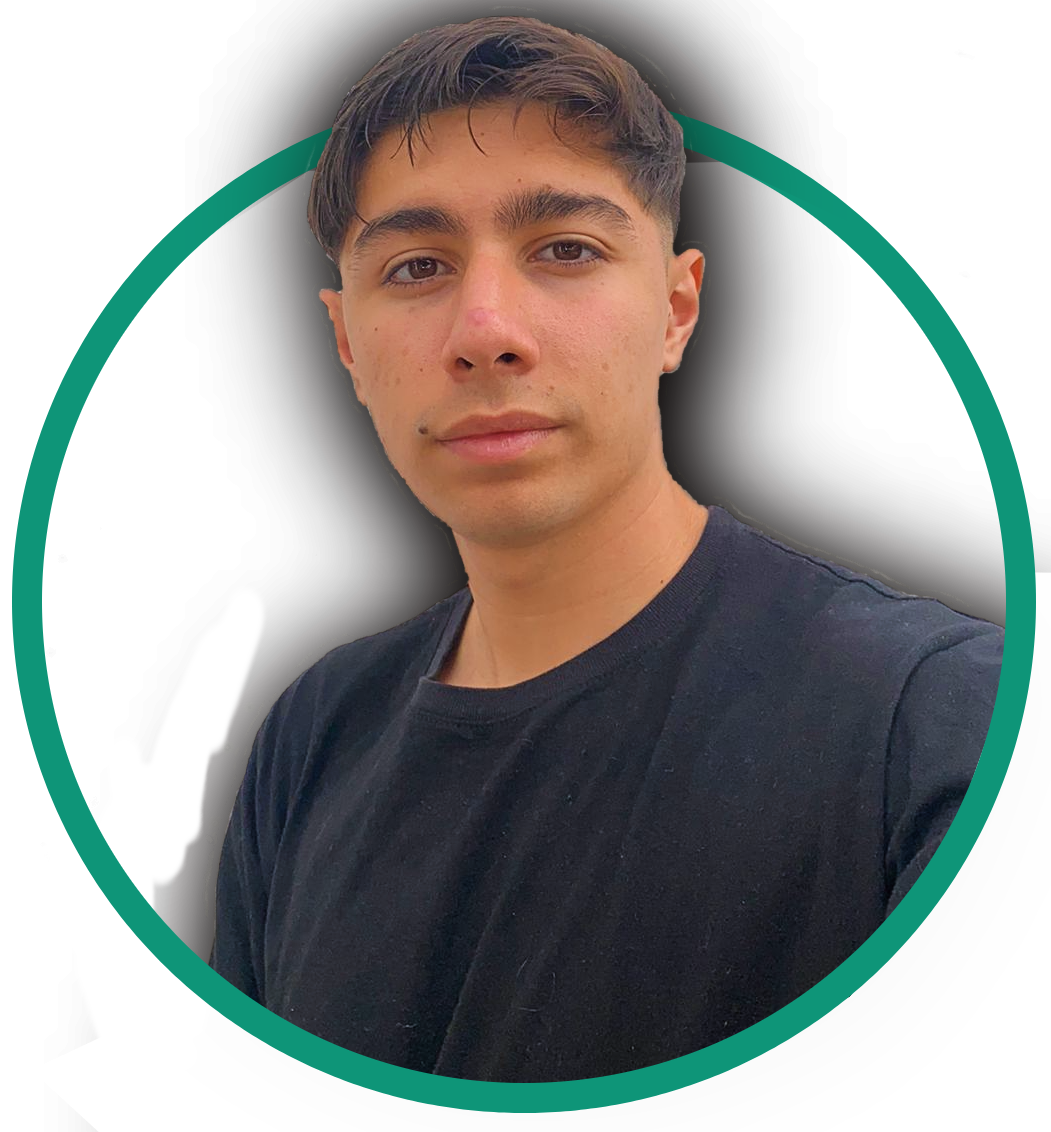
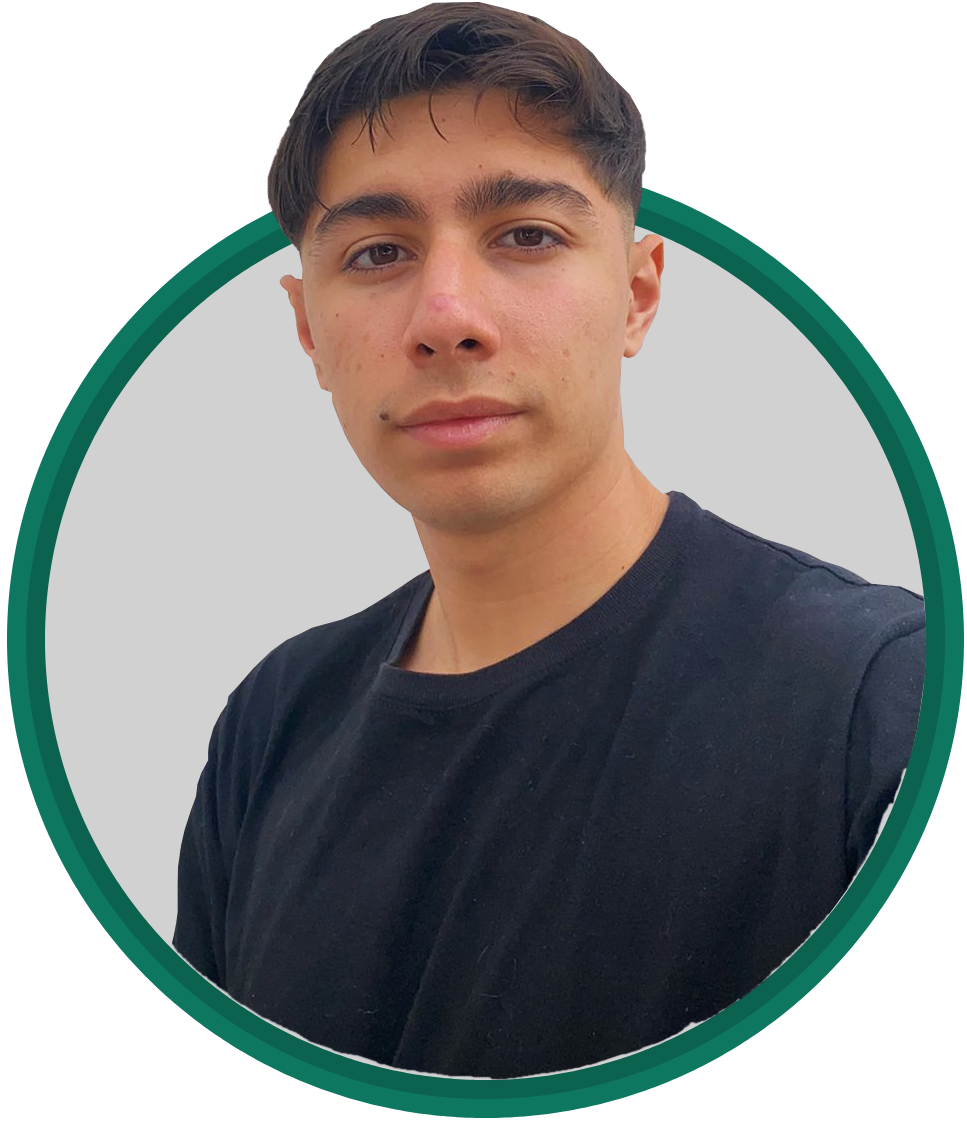
correccion de imagen

diff --git a/public/html/index.html b/public/html/index.html
@@ -193,7 +193,7 @@
             <h2>Sobre <span class="emphasis">mí</span></h2>
             <div class="aboutContainer">
                 <div class="aboutImage">
-                    <img src="https://icones.pro/wp-content/uploads/2021/04/icone-cercle-bleu.png" alt="">
+                    <img src="../images/editada.png" alt="">
                 </div>
                 <div class="aboutText zain">
                     <p>

diff --git a/public/css/style.css b/public/css/style.css
@@ -161,7 +161,9 @@ main{
 }
 .personalImage img
 {
-    width: 80%;
+    max-width: 80%;
+    width: auto;
+    padding-top: 8%;
 }
 .dataText
 {
@@ -436,11 +438,6 @@ main{
 {
     width: 90%;
     margin: 0 auto;
-    transition: .4s;
-}
-.aboutImage img:hover
-{
-    box-shadow: 0 0 0.3em var(--emphasisFontColor);
 }
 .aboutText
 {
